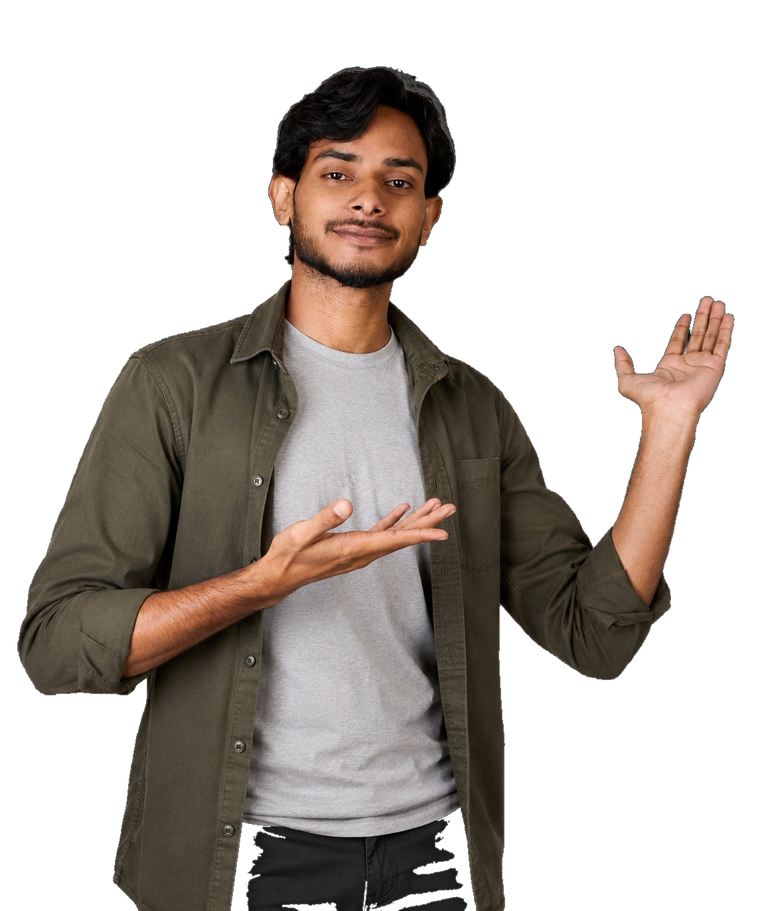
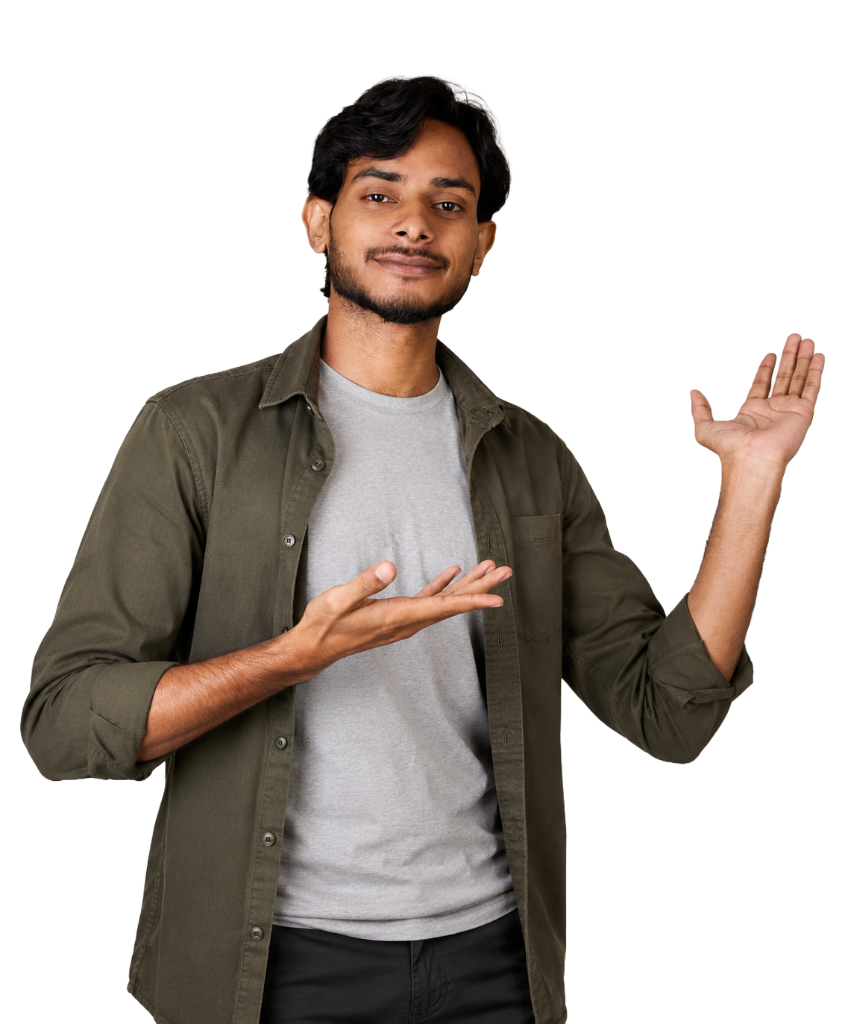
Replace with clean p1 hero image and reset mask crop configuration

diff --git a/index.html b/index.html
@@ -109,8 +109,8 @@ header{min-height:100vh;display:flex;align-items:center;padding:150px 0 80px;pos
   filter:blur(55px);top:18%;left:50%;transform:translateX(-50%);z-index:0;pointer-events:none}
 .hero-cutout{position:relative;z-index:1;width:auto;max-width:115%;max-height:620px;object-fit:contain;
   object-position:bottom center;
-  -webkit-mask-image:linear-gradient(to bottom,#000 0%,#000 80%,rgba(0,0,0,.5) 88%,transparent 93%);
-  mask-image:linear-gradient(to bottom,#000 0%,#000 80%,rgba(0,0,0,.5) 88%,transparent 93%);
+  -webkit-mask-image:linear-gradient(to bottom,#000 0%,#000 84%,rgba(0,0,0,.6) 94%,transparent 100%);
+  mask-image:linear-gradient(to bottom,#000 0%,#000 84%,rgba(0,0,0,.6) 94%,transparent 100%);
   animation:floaty 6s ease-in-out infinite}
 .float-chip{position:absolute;z-index:2;background:rgba(12,12,29,.8);border:1px solid var(--stroke-strong);backdrop-filter:blur(14px);
   padding:12px 16px;border-radius:14px;font-size:13px;font-weight:600;display:flex;align-items:center;gap:9px;box-shadow:var(--shadow);animation:floaty 5s ease-in-out infinite}
